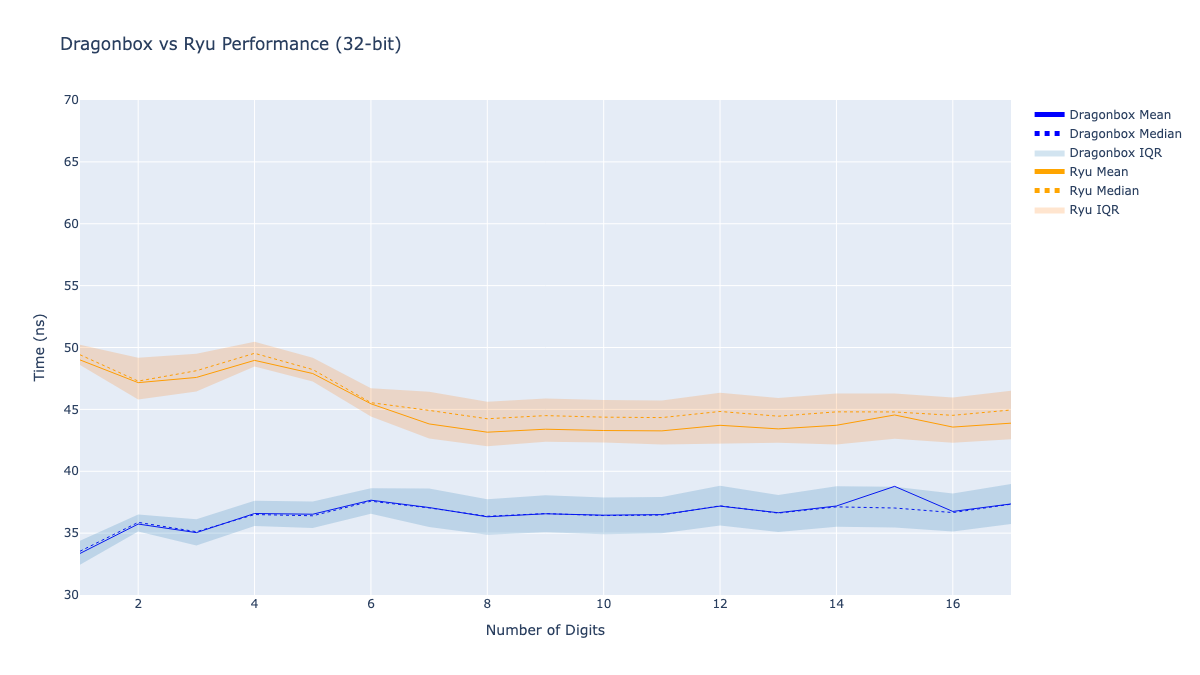
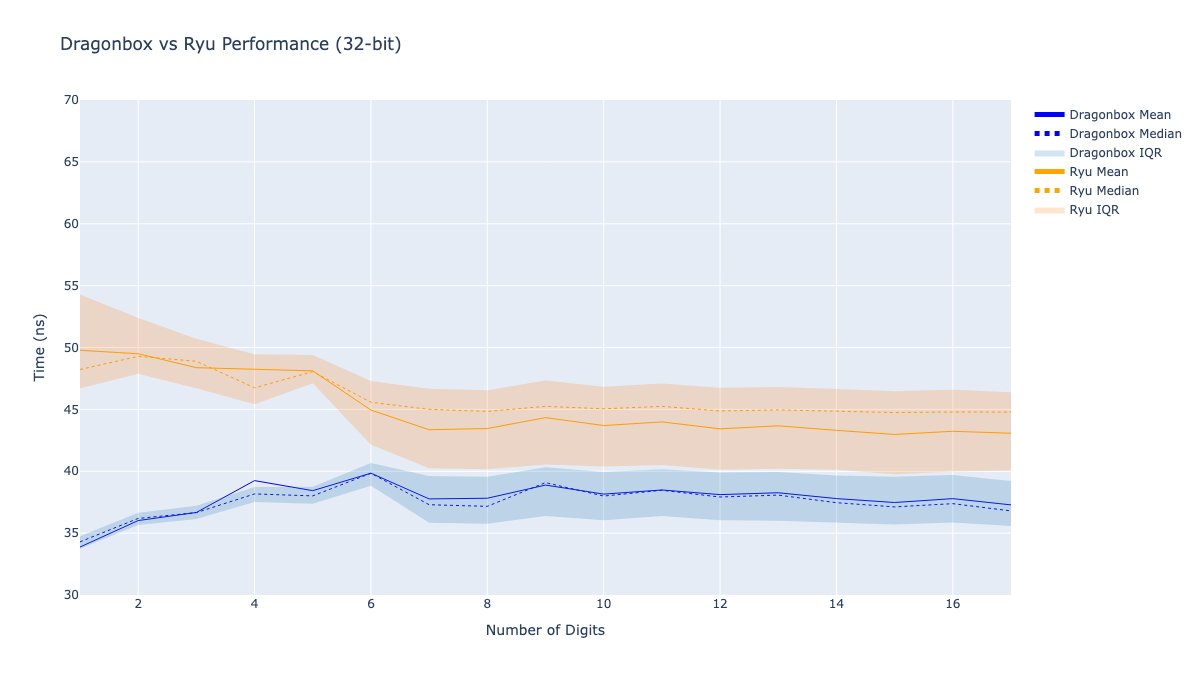
Re-run benchmarks on final impl

Changed region(s): [[0.0617, 0.4356, 0.8633, 0.84]]

diff --git a/src/profile/main.go b/src/profile/main.go
@@ -9,10 +9,10 @@ import (
 )
 
 func main() {
-	profileFtoaRandomBits(1000000, 64, "random_bits64.pprof")
-	profileFtoaRandomDigits(1000000, 64, "random_digits64.pprof")
-	profileFtoaRandomBits(1000000, 32, "random_bits32.pprof")
-	profileFtoaRandomDigits(1000000, 32, "random_digits32.pprof")
+	profileFtoaRandomBits(100000000, 64, "random_bits64.pprof")
+	profileFtoaRandomDigits(10000000, 64, "random_digits64.pprof")
+	profileFtoaRandomBits(100000000, 32, "random_bits32.pprof")
+	profileFtoaRandomDigits(10000000, 32, "random_digits32.pprof")
 }
 
 type testdata struct {
@@ -77,9 +77,6 @@ func profileFtoaRandomDigits(samples, bitSize int, profFile string) {
 	defer pprof.StopCPUProfile()
 
 	for _, tt := range tests {
-		if !(tt.bitSize == 32 || tt.bitSize == 64) {
-			panic("bitsize is illegal" + strconv.FormatInt(int64(tt.bitSize), 10))
-		}
 		strconv.ProfileDragonboxFtoa(tt.val, tt.bitSize)
 		strconv.ProfileRyuFtoaShortest(tt.val, tt.bitSize)
 	}

diff --git a/README.md b/README.md
@@ -10,7 +10,7 @@ Clone the repository with its submodule:
 git clone --recurse-submodules git@github.com:taichimaeda/dragonbox-bench.git
 ```
 
-Build the Go compiler and standard library:
+Build the Go compiler and standard library (`go1.25.0` or later):
 
 ```console
 cd ./go/src
@@ -23,16 +23,26 @@ Run benchmarks using your local Go build:
 
 ```console
 export PATH="$PWD/go/bin:$PATH"
-go run src/bench/main.go
+cd ./src/bench
+go run main.go
+```
+
+To visualize the results:
+
+```console
+cd ./src/bench
+pip install -r requirements.txt
+python plot.py
 ```
 
 ### Fuzz Testing
 
-Run fuzz tests to check correctness across many inputs:
+Run fuzz tests against Ryu to check correctness of the implementation:
 
 ```console
 export PATH="$PWD/go/bin:$PATH"
-go run src/fuzz/main.go
+cd ./src/fuzz
+go run main.go
 ```
 
 ### Profiling
@@ -41,12 +51,13 @@ Collect CPU and memory usage data:
 
 ```console
 export PATH="$PWD/go/bin:$PATH"
-go run src/profile/main.go
+cd ./src/profile
+go run main.go
 ```
 
 ## Results
 
-The following benchmarks were run on an M1 MacBook Air (8 cores/16GB memory). 
+The following benchmarks and profiles were obtained on an M1 MacBook Air (8 cores/16GB memory).
 
 Each chart shows performance of the Dragonbox algorithm under different input scenarios:
 
@@ -54,3 +65,8 @@ Each chart shows performance of the Dragonbox algorithm under different input sc
 ![](./src/bench/random_bits64.png)  
 ![](./src/bench/random_digits32.png)  
 ![](./src/bench/random_digits64.png)
+
+![](./src/profile/random_bits32.png)
+![](./src/profile/random_bits64.png)
+![](./src/profile/random_digits32.png)
+![](./src/profile/random_digits64.png)
